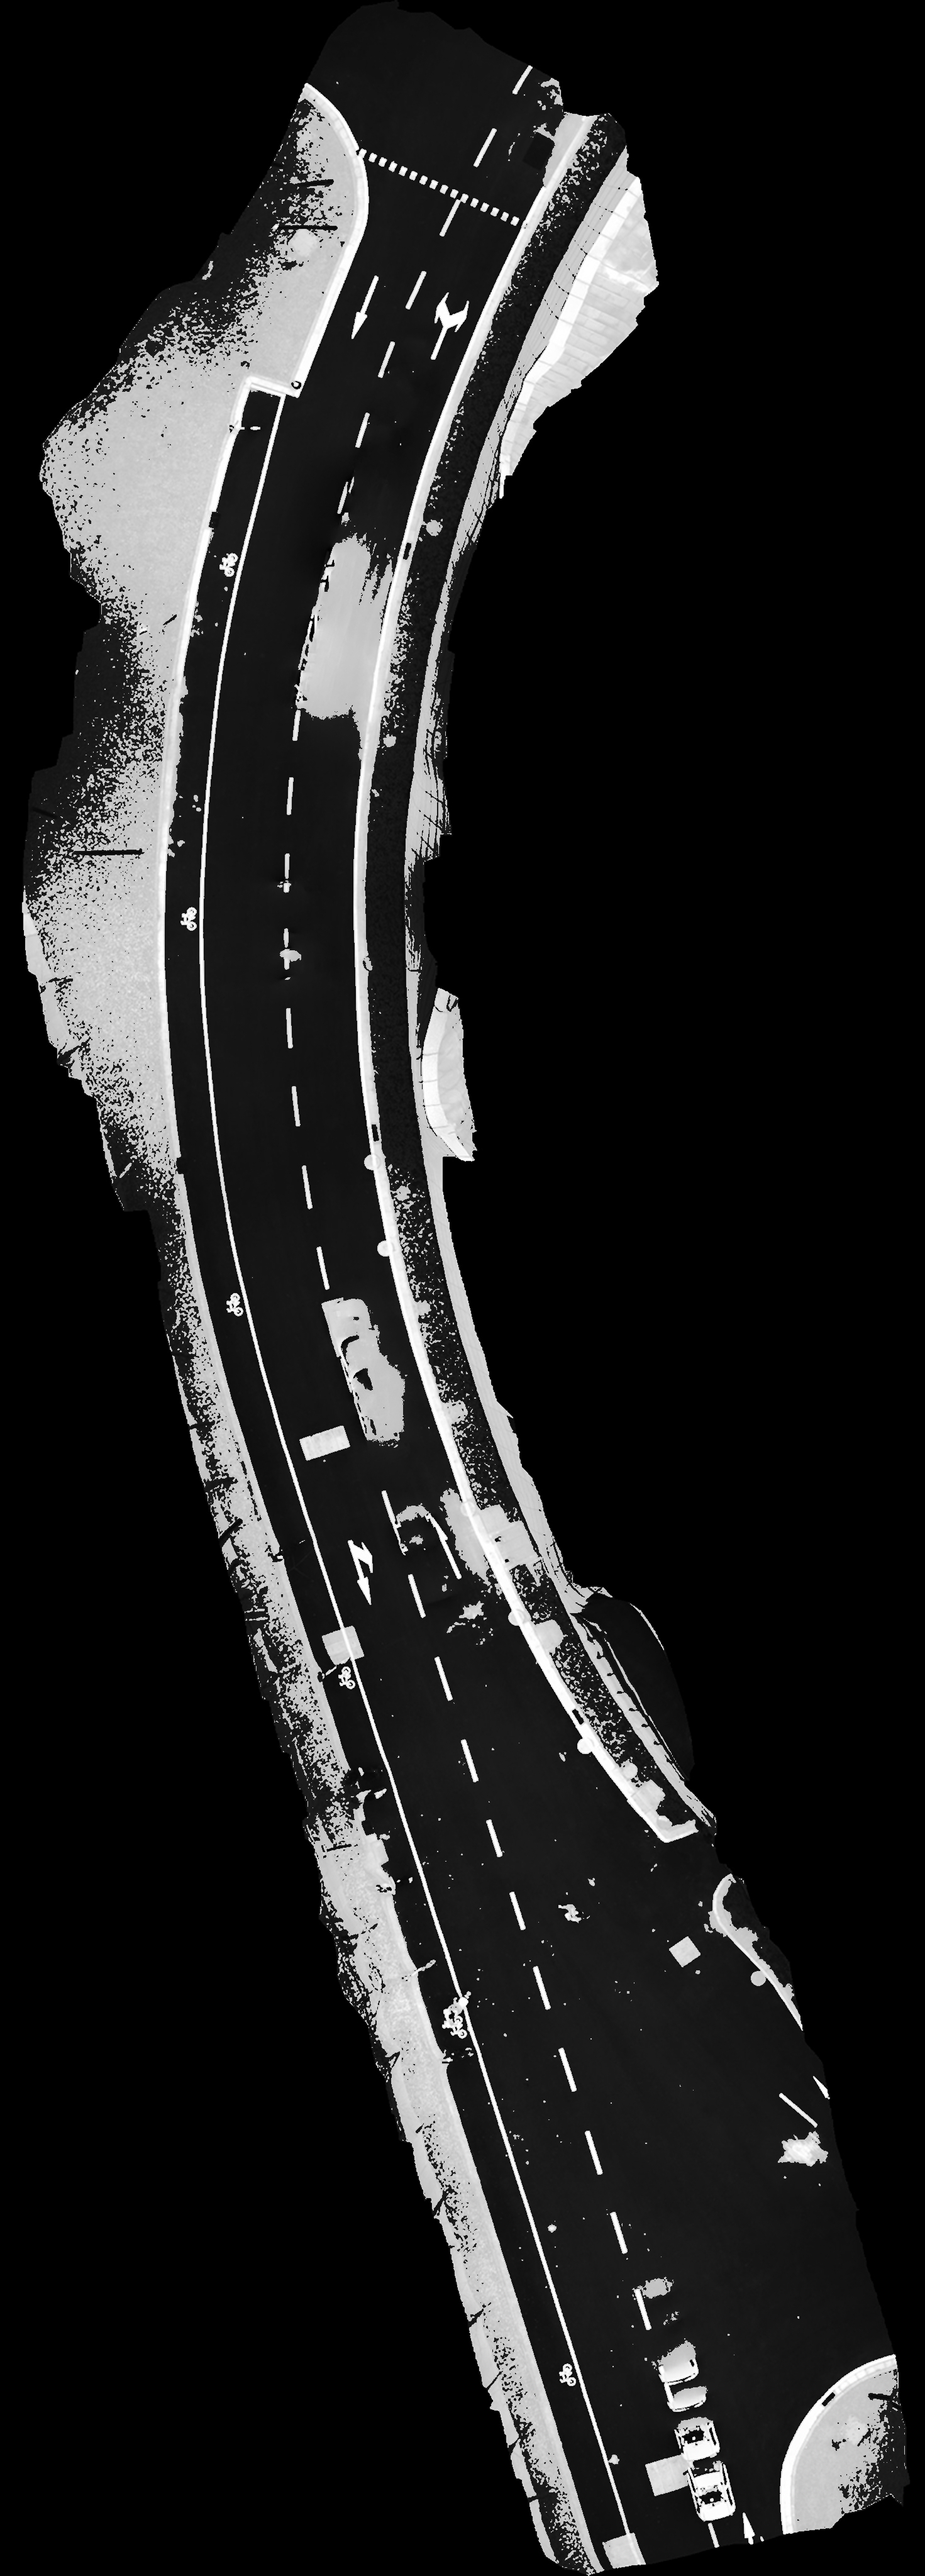
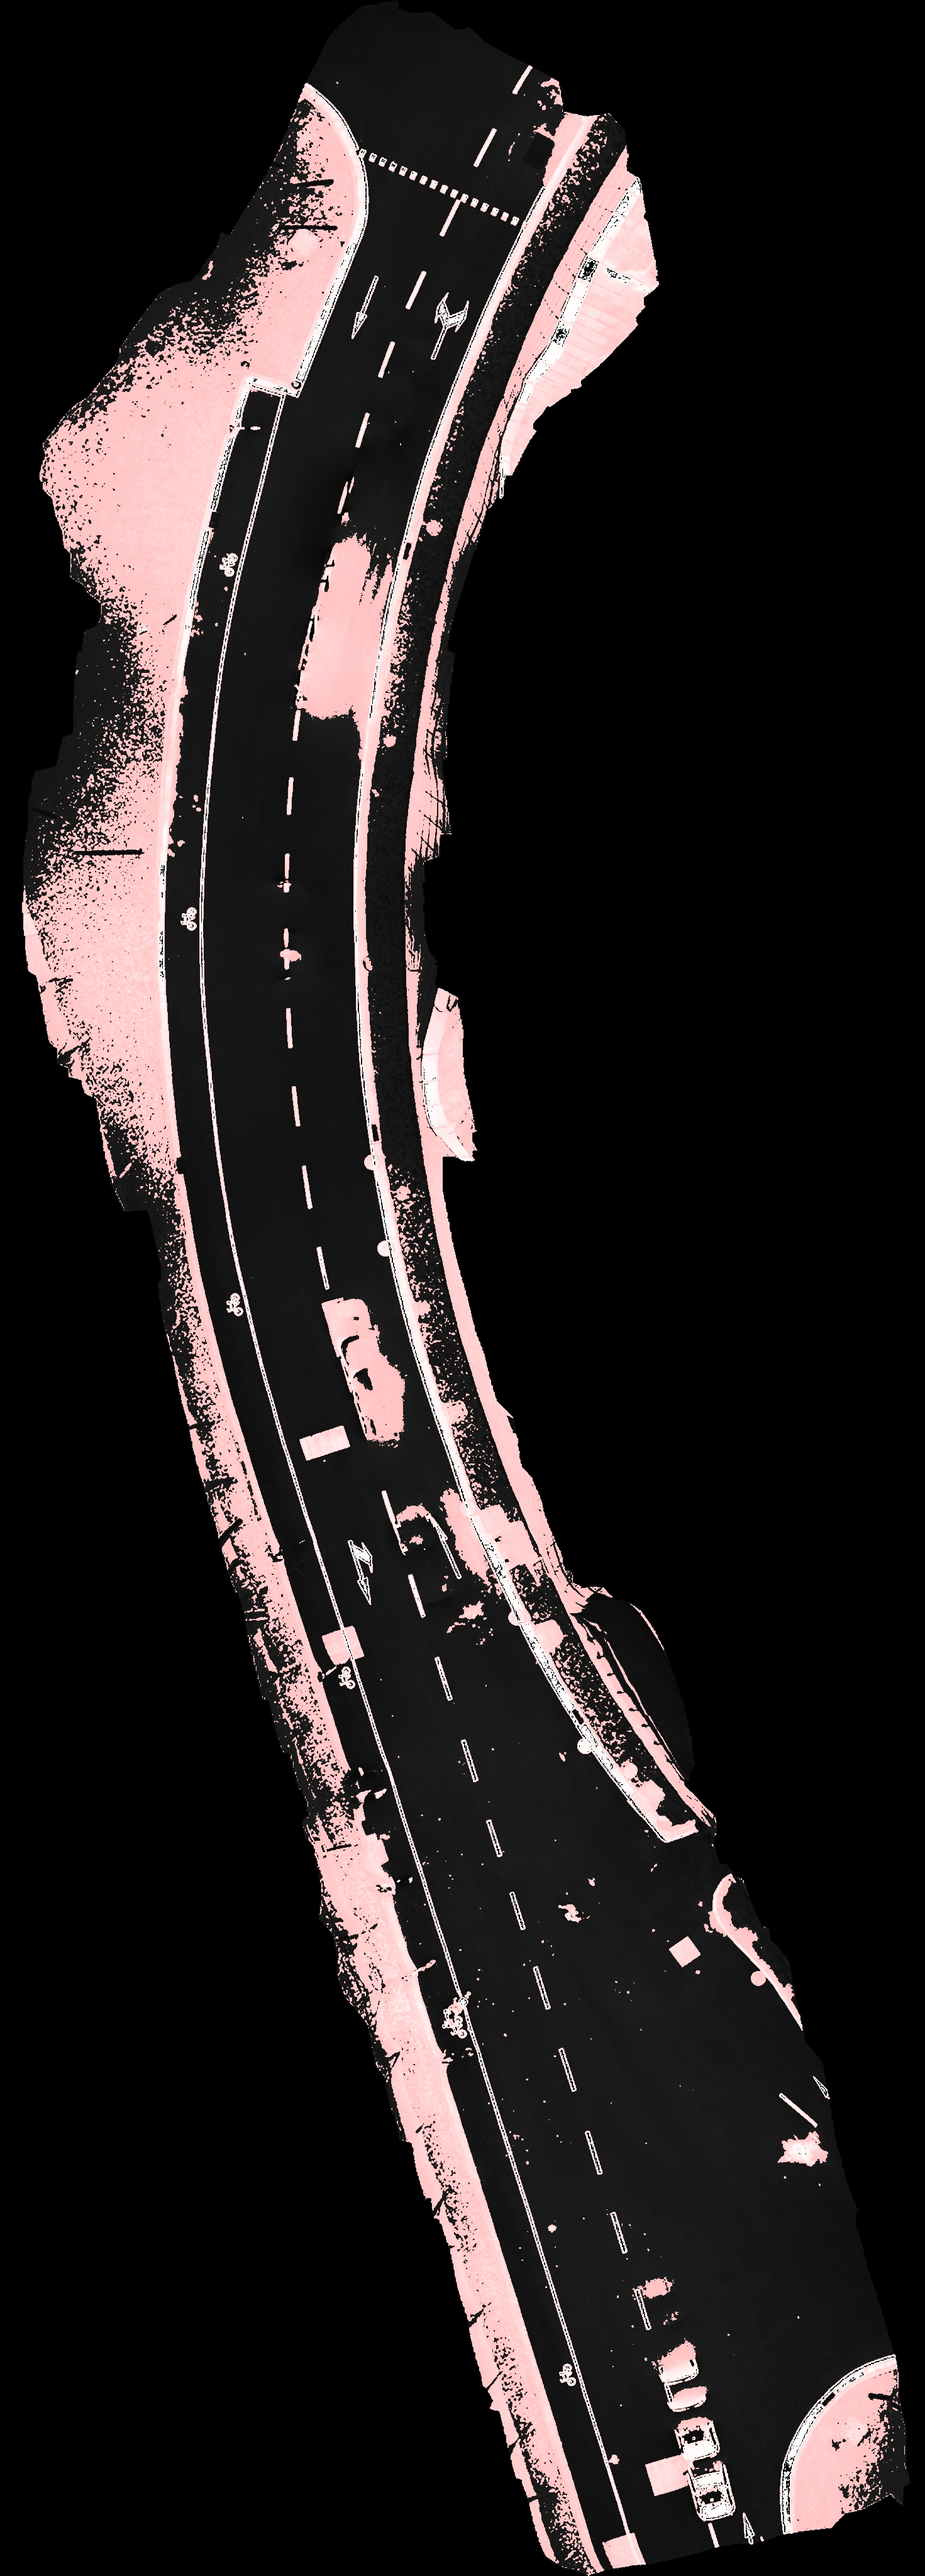
add a python version of ncc

diff --git a/ncc_modified_gt/python/ncc_modified.py b/ncc_modified_gt/python/ncc_modified.py
@@ -1,0 +1,152 @@
+import cv2 as cv
+import numpy as np
+import argparse
+import glob
+import os
+# import numba
+
+parser = argparse.ArgumentParser(description='Code for Changing the contrast and brightness of an image! ')
+parser.add_argument('--input', help='Path to input image.', default='../ground_pics/')
+parser.add_argument('--output', help='Path to input image.', default='../ncc_output/')
+args = parser.parse_args()
+
+inputdir = args.input
+outputdir = args.output
+
+
+
+# Rotates an image (angle in degrees) and expands image to avoid cropping
+
+def rotate_image(mat, angle):
+
+
+	height, width = mat.shape # image shape has 3 dimensions
+	image_center = (width/2, height/2) # getRotationMatrix2D needs coordinates in reverse order (width, height) compared to shape
+
+	rotation_mat = cv.getRotationMatrix2D(image_center, angle, 1.)
+
+	# rotation calculates the cos and sin, taking absolutes of those.
+	abs_cos = abs(rotation_mat[0,0]) 
+	abs_sin = abs(rotation_mat[0,1])
+
+	# find the new width and height bounds
+	bound_w = int(height * abs_sin + width * abs_cos)
+	bound_h = int(height * abs_cos + width * abs_sin)
+
+	# subtract old image center (bringing image back to origo) and adding the new image center coordinates
+	rotation_mat[0, 2] += bound_w/2 - image_center[0]
+	rotation_mat[1, 2] += bound_h/2 - image_center[1]
+
+	# rotate image with the new bounds and translated rotation matrix
+	rotated_mat = cv.warpAffine(mat, rotation_mat, (bound_w, bound_h))
+	return rotated_mat
+
+
+def NCC(img,temp,x,y):
+	[H,W] = temp.shape
+	
+	sum_img = float(0)
+	sum_temp = float(0)
+	sum_2 = float(0)
+
+	for i in range(W):
+		for j in range(H):
+			if(temp[j,i] != 255 & img[y+j, x+i] !=0):
+				sum_img = sum_img + float(img[y+j,x+i])**2
+				sum_temp = sum_temp + float(temp[j,i])**2
+				sum_2 = sum_2 + (2-abs((W/2)-i)/(W/2)*abs((H/2)-j)/(H/2))*float(img[y+j,x+i])*float(temp[j,i])
+			# sum_2 = sum_2 + float(img(y+j,x+i))*float(temp(j,i));
+
+	val = sum_2/np.sqrt(float(sum_img)*float(sum_temp))
+	return val
+
+
+# start of the main loop
+
+for filename in glob.glob(inputdir+"183_contrast.jpg"):
+
+
+	# read souce image and convert it to gray
+	img = cv.imread("../ortho_no_car.jpeg")
+	img_g = cv.cvtColor(img, cv.COLOR_BGR2GRAY)
+	[img_height,img_width] = img_g.shape
+
+
+	# read template imgage and convert it to gray, rotation and resize
+	temp = cv.imread(filename)
+	temp_g = cv.cvtColor(temp, cv.COLOR_BGR2GRAY)
+	temp_r = rotate_image(temp_g, -93.5)
+	# resize it
+	scaling_factor = 3.54
+	temp_width = int(temp_r.shape[1]*scaling_factor)
+	temp_hight = int(temp_r.shape[0]*scaling_factor)
+	temp_dim = (temp_width, temp_hight)
+	temp_r = cv.resize(temp_r, temp_dim)
+
+	# start of the ncc process
+	regionXmin=13
+	regionXmax=686
+	regionYmin=13
+	regionYmax=686
+
+	maxrotation=1
+	angle_resolution = 1
+	val_max = -1
+	xp = 0
+	yp = 0
+	number = 0
+	totalcomputation = 0
+	valmaxlist=np.zeros([1,maxrotation], dtype=float)
+	coordinatelists=np.zeros([2,maxrotation], dtype=float)
+
+	for rotationtest in range(maxrotation):
+		temp_r1 = rotate_image(temp_r, -(rotationtest)*angle_resolution)
+		[temp_H,temp_W] = temp_r1.shape
+		totalcomputation = totalcomputation+(regionXmax-regionXmin-temp_W+1)*(regionYmax-regionYmin-temp_H+1)
+
+	print("the total computation times", totalcomputation)
+
+
+	for rotation in  range(maxrotation):
+
+
+		temp_g = rotate_image(temp_r, -(rotation)*angle_resolution)
+		
+		
+		[temp_H,temp_W] = temp_g.shape
+		
+		dis = np.ones([regionYmax-temp_H-regionYmin+1,regionXmax-temp_W-regionXmin+1], dtype=float)
+		
+		for y in range(regionYmin-1, regionYmax-temp_H):
+			for x in range(regionXmin-1, regionXmax-temp_W):
+				val = NCC(img_g,temp_g,x,y)
+				number = number + 1
+				progess = 100*number/totalcomputation
+				dis[y-regionYmin+1,x-regionXmin+1]=val
+				print("Progress=", progess)
+				if val > val_max:
+					val_max = val
+					xp = x
+					yp = y
+					angle=rotation
+		valmaxlist[0,rotation] = val_max
+		print("xp= ", xp)
+		print("yp= ", yp)
+		coordinatelists[0,rotation]=xp
+		coordinatelists[1,rotation]=yp
+
+	print("coordinate_list ", coordinatelists)
+	print("distance", dis)
+
+
+
+	
+
+
+
+	picturename = os.path.basename(filename)
+	print("picturename", picturename )
+	cv.imwrite(outputdir+picturename, image, [cv.IMWRITE_JPEG_QUALITY, 100])
+	print("Picture:", filename, "done")
+	cv.imshow('modified', image)
+	cv.waitKey(10000)

diff --git a/tuning_contrast/tune_color.py b/tuning_contrast/tune_color.py
@@ -1,0 +1,38 @@
+from __future__ import print_function
+from builtins import input
+import cv2 as cv
+import numpy as np
+import argparse
+import glob
+import os
+
+# Read image given by user
+parser = argparse.ArgumentParser(description='Code for Changing the contrast and brightness of an image! ')
+parser.add_argument('--input', help='Path to input image.', default='./test/')
+parser.add_argument('--output', help='Path to input image.', default='./contrast_convertBW_image/')
+args = parser.parse_args()
+
+inputdir = args.input
+outputdir = args.output
+
+for filename in glob.glob(inputdir+"277.jpg"):
+
+	image = cv.imread(filename)
+	
+	for y in range(image.shape[0]):
+	    for x in range(image.shape[1]):
+	    	# if(image[y,x][0] == 255):
+	    	# 	image[y,x][0],image[y,x][1],image[y,x][2] = 0,0,0
+	    	if(image[y,x][0]>=60):
+	    		image[y,x][0] = min(255, image[y,x][0]+60)
+	    		image[y,x][1]=min(255,image[y,x][0]+3)
+	    		image[y,x][2]=0
+
+
+
+	picturename = os.path.basename(filename)
+	print("picturename", picturename )
+	cv.imwrite(outputdir+picturename, image, [cv.IMWRITE_JPEG_QUALITY, 100])
+	print("Picture:", filename, "done")
+	cv.imshow('modified', image)
+	cv.waitKey(10000)

diff --git a/ncc_modified_gt/cplusplus/ncc_modified.cpp b/ncc_modified_gt/cplusplus/ncc_modified.cpp
@@ -1,0 +1,1 @@
+#include 
